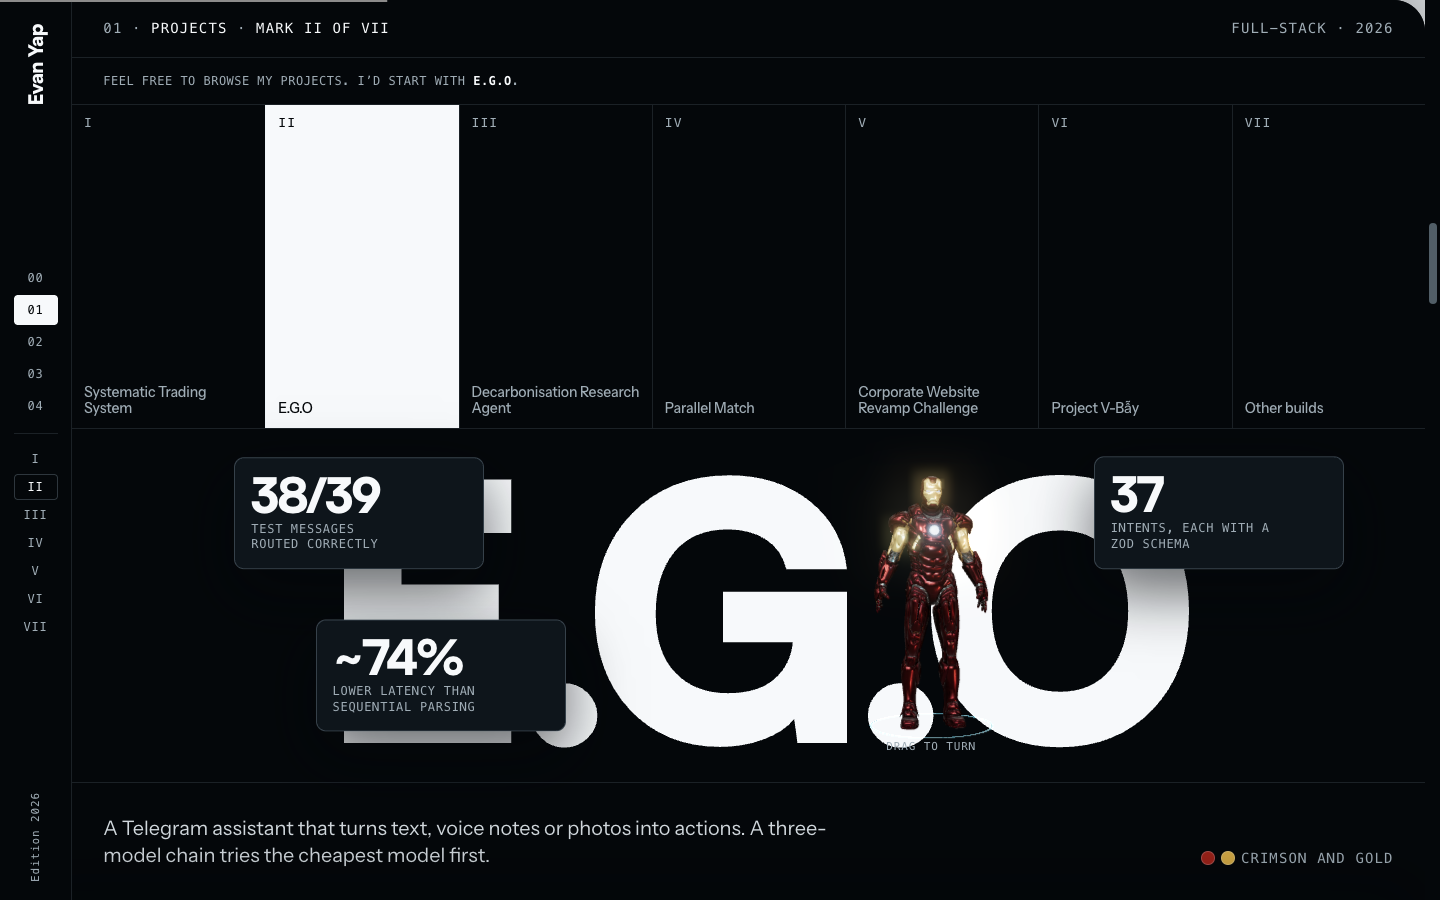
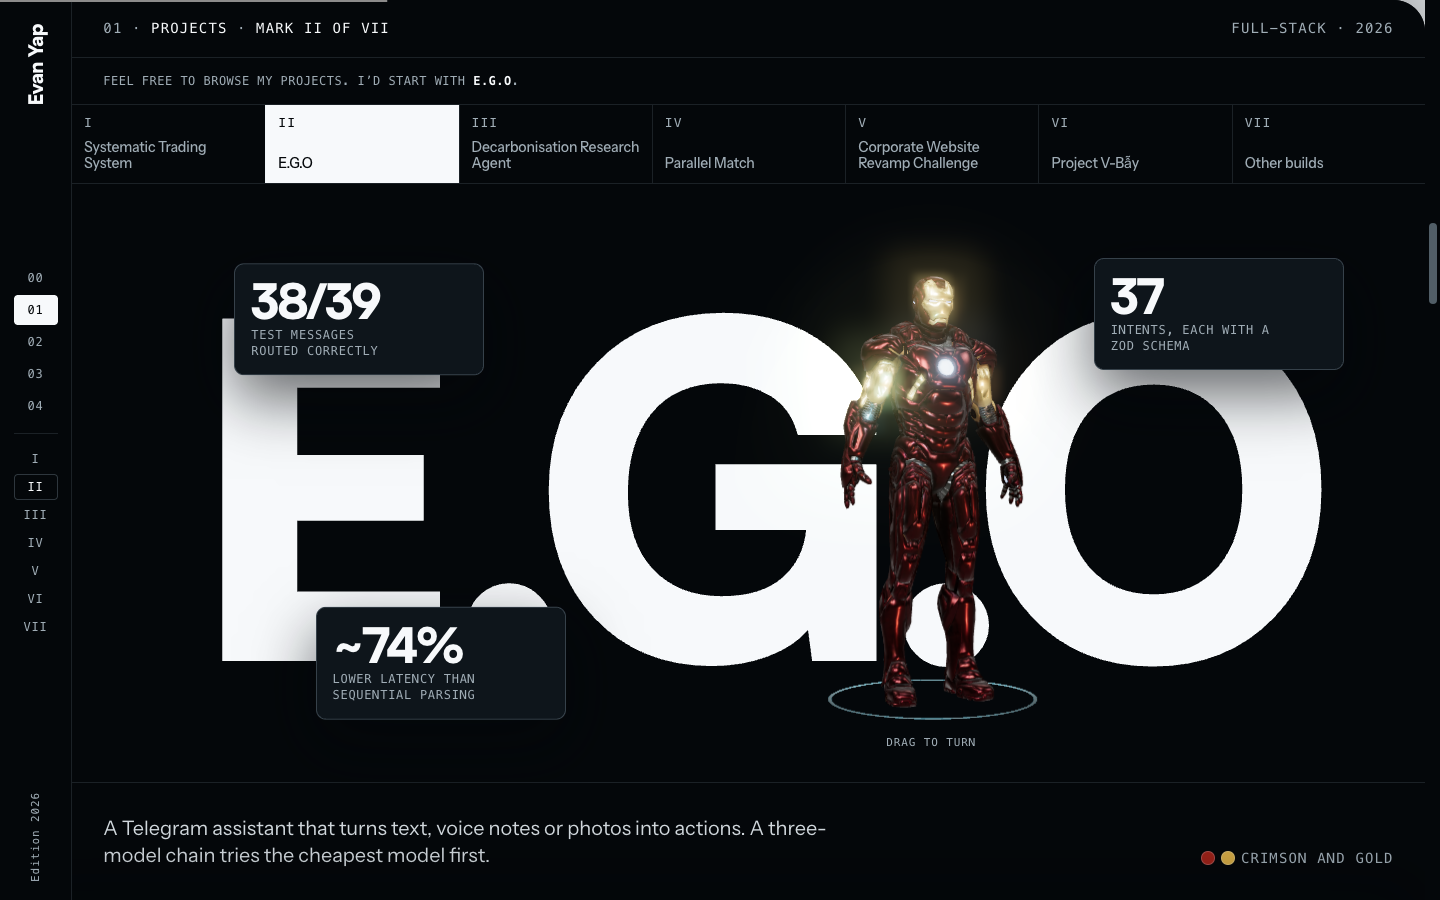
fix(editions): give the invite line its own row so the picker keeps its height

diff --git a/css/editions.css b/css/editions.css
@@ -140,7 +140,7 @@ html { scrollbar-color: hsl(var(--h) 12% 36%) var(--ink); }
 .slab.contact .title { font-size: clamp(64px, 12vw, 220px); }
 
 /* Projects: the chapter opener (dark) ----------------------------------- */
-.opener { position: relative; display: grid; grid-template-rows: auto auto 1fr auto; min-height: 100svh; background: var(--ink); overflow: clip; isolation: isolate; }
+.opener { position: relative; display: grid; grid-template-rows: auto auto auto 1fr auto; min-height: 100svh; background: var(--ink); overflow: clip; isolation: isolate; }
 .opener__bar { display: flex; justify-content: space-between; gap: 16px; padding: 18px var(--pad); border-bottom: 1px solid var(--hair-soft); color: var(--muted); }
 .opener__where > * { display: inline; margin: 0; font: inherit; letter-spacing: inherit; }
 .opener__where h2, #p-mark { color: var(--text); }
